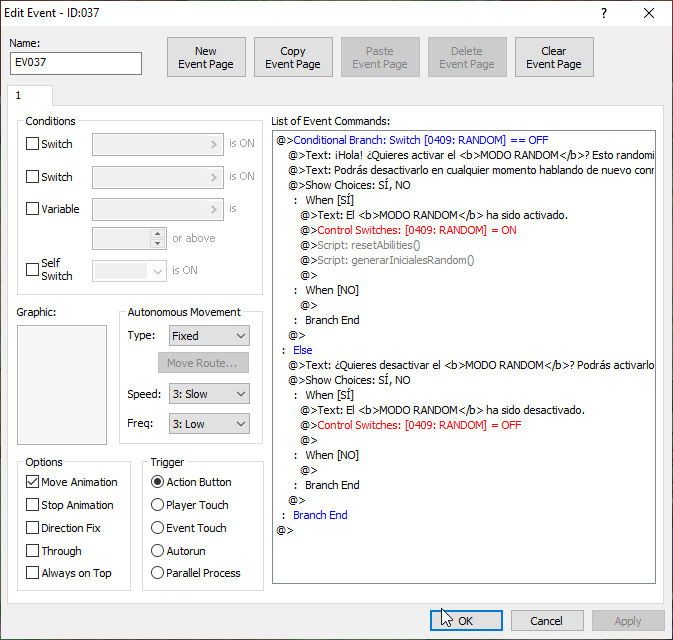
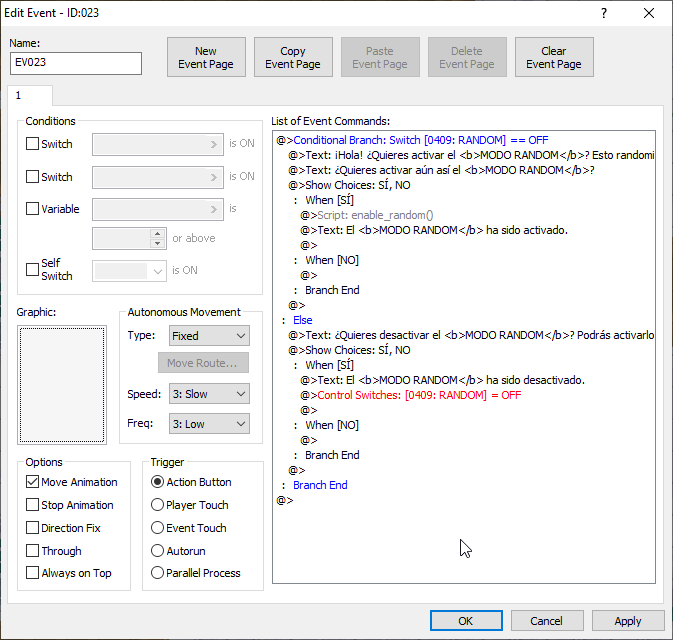
Cambios de la version 1.2.0

diff --git a/Random.rb b/Random.rb
@@ -26,9 +26,6 @@ module RandomizedChallenge
   Switch = 409 # switch ID to randomize a pokemon, if it's on then ALL
               # pokemon will be randomized. No exceptions.
   
-              
-  RANDOM_TM_COMPAT = false
-  
   BlackListedPokemon = []
   # Los Pokémon de la blacklist jamas saldran, ni en entrenadores ni como salvajes.
   # Ejemplo Blacklist
@@ -163,10 +160,28 @@ module RandomizedChallenge
   # Si la variable FULL_RANDOM_ABS esta en true esa sera la opcion determinada
   MAP_RANDOM_ABS = false
   # Si ambas variables estan en false no se randomizaran las habilidades
+  # Se puede cambiar el metodo de randomizado de habilidades 
+  # llamando al metodo choose_random_ability_mode a este metodo hay que pasarle el modo
+  # Para el mapeo hay que pasarle :MAP_RANDOM_ABS, asi choose_random_ability_mode(:MAP_RANDOM_ABS)
+  # Para el modo full random hay que pasarle :FULL_RANDOM_ABS, asi choose_random_ability_mode(:FULL_RANDOM_ABS)
+  # Tengan en cuenta que el llamado a este método volverá a randomizar las habilidades
+  # Y las antiguas no podrán ser recuperadas.
 
   # Este flag decide que el BST de los pokemon sea progresivo, es decir si el flag está en true 
   # no podran salir pokemon con un BST mayor al que se define en la funcion getMaxBSTCap
-  PROGRESSIVE_RANDOM = true
+  # Siempre se podra modificar esto llamando al metodo toggle_progressive_random
+  PROGRESSIVE_RANDOM_DEFAULT_VALUE = true
+
+  # Movimientos randomizados
+  # Si quieres que los movimientos esten randomizados por defecto pon esta constante en true
+  # Siempre se podra modificar esto llamando al metodo toggle_random_moves
+  RANDOM_MOVES_DEFAULT_VALUE = true
+  
+  # Randomizar compatibilidad con las MTs
+  # Se podrá cambiar llamando al metodo toggle_tm_compat
+  # Tengan en cuenta que de esa forma un jugador podria armarse el moveset como quiera
+  # Activando y desactivando esta opción
+  RANDOM_TM_COMPAT_DEFAULT_VALUE = false
 end
 
 ######################### Do not edit anything below here.
@@ -178,12 +193,46 @@ class PokemonGlobalMetadata
   attr_accessor :randomAbsPokemon
   attr_accessor :abilityHash
   attr_accessor :randomMoves
+  attr_accessor :enable_random_moves
+  attr_accessor :random_ability_mode
+  attr_accessor :progressive_random
+  attr_accessor :enable_random_tm_compat
   alias random_abil_init initialize
   def initialize
     random_abil_init
     @abilityHash=nil
   end
 end
+
+def are_random_moves_on()
+  return $PokemonGlobal.enable_random_moves ? true : false
+end
+def toggle_random_moves()
+  $PokemonGlobal.enable_random_moves = RandomizedChallenge::RANDOM_MOVES_DEFAULT_VALUE if $PokemonGlobal.enable_random_moves == nil
+  $PokemonGlobal.enable_random_moves = !$PokemonGlobal.enable_random_moves
+end
+
+def is_progressive_random_on()
+  return $PokemonGlobal.progressive_random ? true : false
+end
+def toggle_progressive_random()
+  $PokemonGlobal.progressive_random = !$PokemonGlobal.progressive_random
+end
+
+def is_random_tm_compat_on()
+  return $PokemonGlobal.enable_random_tm_compat ? true : false
+end
+def toggle_random_tm_compat()
+  $PokemonGlobal.enable_random_tm_compat = !$PokemonGlobal.enable_random_tm_compat
+end
+
+
+def choose_random_ability_mode(mode=:FULL_RANDOM_ABS)
+  return if $PokemonGlobal.random_ability_mode == mode
+  $PokemonGlobal.random_ability_mode = mode
+  resetAbilities
+end
+
 
 def get_random_gens()
   return $PokemonGlobal.randomGens ? $PokemonGlobal.randomGens : []
@@ -209,6 +258,23 @@ def add_or_remove_random_gen(gen = nil)
   end
 end
 
+def enable_random 
+  return if !$game_switches
+  resetAbilities
+  $PokemonGlobal.enable_random_moves = RandomizedChallenge::RANDOM_MOVES_DEFAULT_VALUE if $PokemonGlobal.enable_random_moves == nil
+  if !$PokemonGlobal.random_ability_mode
+    if RandomizedChallenge::FULL_RANDOM_ABS 
+      $PokemonGlobal.random_ability_mode = :FULL_RANDOM_ABS
+    elsif RandomizedChallenge::MAP_RANDOM_ABS 
+      $PokemonGlobal.random_ability_mode = :MAP_RANDOM_ABS
+    end
+  end
+  $PokemonGlobal.progressive_random = RandomizedChallenge::PROGRESSIVE_RANDOM_DEFAULT_VALUE if $PokemonGlobal.progressive_random == nil
+  $PokemonGlobal.enable_random_tm_compat = RandomizedChallenge::RANDOM_TM_COMPAT_DEFAULT_VALUE if $PokemonGlobal.enable_random_tm_compat == nil
+  generarInicialesRandom
+  $game_switches[RandomizedChallenge::Switch] = true
+end
+
 def is_pokemon_in_gen_range(species)
   return true if !$PokemonGlobal.randomGens
   is_valid = false
@@ -223,7 +289,7 @@ def is_pokemon_in_gen_range(species)
 end
 
 def isNotInAllowedBSTRange(bst)
-  return false if !RandomizedChallenge::PROGRESSIVE_RANDOM
+  return false if !$PokemonGlobal.progressive_random
   bst > getMaxBSTCap() || bst < getMinBSTCap()
 end
   
@@ -246,15 +312,10 @@ end
 def resetAbilities
   $PokemonGlobal.randomAbsPokemon.clear() if $PokemonGlobal.randomAbsPokemon
   $PokemonGlobal.abilityHash.clear() if $PokemonGlobal.abilityHash
-  createAbilityHash if RandomizedChallenge::MAP_RANDOM_ABS
+  createAbilityHash if $PokemonGlobal.random_ability_mode == :MAP_RANDOM_ABS
 end
 
 class PokeBattle_Pokemon
-  
-  alias randomized_init initialize
-  alias random_getAbilityList getAbilityList
-  alias random_getMoveList getMoveList
-
   def getBaseStatsSum(species)
     dexdata=pbOpenDexData
     pbDexDataOffset(dexdata,species,10)
@@ -318,6 +379,7 @@ class PokeBattle_Pokemon
   #    level     - Nivel del Pokémon.
   #    player    - Objeto PokeBattle_Trainer para el entrenador original.
   #    withMoves - Si está en false, este Pokémon no tendrá movimientos.
+  alias randomized_init initialize
   def initialize(species,level,player=nil,withMoves=true)
     return randomized_init(species,level,player,withMoves) if !($game_switches && $game_switches[RandomizedChallenge::Switch])
     species = getRandomSpecies()
@@ -395,29 +457,31 @@ class PokeBattle_Pokemon
       atkdata.pos=offset
       # Genera lista de movimientos
       movelist=[]
-      # INCIO generación de movimientos random
-      movelist = []
-      while movelist.length<4
-        move=rand(PBMoves::PBMoves.maxValue - 1)+1
-        movedata=PBMoveData.new(move)
-        if $Trainer.numbadges < 3 && RandomizedChallenge::PROGRESSIVE_RANDOM
-          next if (!move || movedata.basedamage > 70 || RandomizedChallenge::MOVEBLACKLIST.include?(move)) 
-        else
-          next if (!move || RandomizedChallenge::MOVEBLACKLIST.include?(move)) 
+      if $PokemonGlobal.enable_random_moves 
+        while movelist.length<4
+          move=rand(PBMoves::PBMoves.maxValue - 1)+1
+          movedata=PBMoveData.new(move)
+          if $Trainer.numbadges < 3 && $PokemonGlobal.progressive_random
+            next if (!move || movedata.basedamage > 70 || RandomizedChallenge::MOVEBLACKLIST.include?(move)) 
+          else
+            next if (!move || RandomizedChallenge::MOVEBLACKLIST.include?(move)) 
+          end
+          movelist.push(move)
+          movelist|=[] # Elimina duplicados
         end
-        movelist.push(move)
-        movelist|=[] # Elimina duplicados
-      end
-      # FIN generación de movimientos random
-      for i in 0..length-1
-        alevel=atkdata.fgetw
-        move=atkdata.fgetw
-        if alevel<=level
-          movelist[movelist.length]=move
+         # FIN generación de movimientos random
+      else
+        for i in 0..length-1
+          alevel=atkdata.fgetw
+          move=atkdata.fgetw
+          if alevel<=level
+            movelist[movelist.length]=move
+          end
         end
       end
       atkdata.close
       movelist|=[] # Elimina duplicados
+     
       # Se usan los últimos 4 elementos en la lista de movimientos
       listend=movelist.length-4
       listend=0 if listend<0
@@ -435,7 +499,7 @@ class PokeBattle_Pokemon
   end
   
 def isCompatibleWithMove?(move)
-  if !RandomizedChallenge::RANDOM_TM_COMPAT || ($game_switches && !$game_switches[RandomizedChallenge::Switch])
+  if !$PokemonGlobal.enable_random_tm_compat || ($game_switches && !$game_switches[RandomizedChallenge::Switch])
     return pbSpeciesCompatible?(self.species,move)
   end
 
@@ -495,21 +559,24 @@ def getAbilityMap(ret)
   return ret
 end
 
+alias random_getAbilityList getAbilityList
 def getAbilityList
   ret = random_getAbilityList
   if $game_switches && $game_switches[RandomizedChallenge::Switch]
-    if RandomizedChallenge::FULL_RANDOM_ABS
+    if $PokemonGlobal.random_ability_mode == :FULL_RANDOM_ABS
       return getAbilityFullRandom(ret)
-    elsif RandomizedChallenge::MAP_RANDOM_ABS
+    elsif $PokemonGlobal.random_ability_mode == :MAP_RANDOM_ABS
       return getAbilityMap(ret)
     end
   end
   return ret
 end
 
-
+alias random_getMoveList getMoveList
 def getMoveList
-  return random_getMoveList() if !($game_switches && $game_switches[RandomizedChallenge::Switch])
+  if ($game_switches && !$game_switches[RandomizedChallenge::Switch]) || !$PokemonGlobal.enable_random_moves
+   return random_getMoveList
+  end
   movelist=[]
   atkdata=pbRgssOpen("Data/attacksRS.dat","rb")
   offset=atkdata.getOffset(@species-1)
@@ -529,7 +596,7 @@ def getMoveList
     if move != nil
         move=rand(PBMoves::PBMoves.maxValue)+1 
         movedata=PBMoveData.new(move)
-        if $Trainer.numbadges < 3 && RandomizedChallenge::PROGRESSIVE_RANDOM
+        if $Trainer.numbadges < 3 && $PokemonGlobal.progressive_random
           moveExists = $PokemonGlobal.randomMoves[@species].detect{ |elem| elem[1] == (move) }
           while movedata.basedamage > 70 || RandomizedChallenge::MOVEBLACKLIST.include?(move) || moveExists
             move=rand(PBMoves::PBMoves.maxValue)+1

diff --git a/README.md b/README.md
@@ -4,18 +4,6 @@
 
 El modo random randomizará ataques y habilidades de los pokémon tanto de entrenadores como de los salvajes, se puede activar que también se randomice la compatibilidad con las MTs, se podrá restringir las generaciones de los pokémon que apareceran en el random.
 
-Se puede elegir como funciona el random de las habilidades, si es 100% random por especie o si mapea una habilidad a otra, o directamente no randomizar las habilidades.
-Unos ejemplos:
-
-- **Opción 1:** 100% random -> Para esta opcion hay que poner la constante `FULL_RANDOM_ABS` que está en el script `Random.rb` en `true`
-  Ejemplo Pikachu tendra Intimidación y Cura Natural, pero Raichu podría tener otras distintas, como Absorbe agua y levitación
-- **Opción 2:** Mapeo de habilidades -> Para esta opcion hay que poner la constante `MAP_RANDOM_ABS` que está en el script `Random.rb` en `true`
-  Ejemplo Intimidacion se convierte en Inicio Lento, lo que no significa, que Inicio Lento se convierta en Intimidación
-
-Si ninguna de las 2 constantes está en `true` no se randomizarán las habilidades.
-
-Si ambas constantes están en `true` se utilizará la opción 1
-
 El random es progresivo en base a la cantidad de medallas del jugador, entre más medallas tenga salen pokémon con más BST, aquí dejo la formula, que la pueden modificar en el metodo `getMaxBSTCap` y `getMinBSTCap`
 
 - 0 y 1 medalla BST min 0 y BST max 400
@@ -40,15 +28,61 @@ En el script `ObjetosRandom.rb` hay una variable `BLACK_LIST` que contiene los o
 
 También hay una variable `MTLIST_RANDOM` que debe contener las MTs, para que si el objeto que se randomizó es una MT que ya tienes se genere otra MT distinta, las distintas MTs se deben separar por comas, por ejemplo `[:TM01, :TM02, :TM03]`
 
+### Configuraciones Base
+
+- Si quieres desactivar el randomizado de los movimientos, en el script `Random.rb` hay una variable que se llama `RANDOM_MOVES_DEFAULT_VALUE` por defecto está en `true` si la cambias a `false` no se randomizarán los movimientos
+- Si quieres activar el randomizado de la compatibilidad con las MTs, en el script `Random.rb` hay una variable que se llama `RANDOM_TM_COMPAT` por defecto está en `false` si la cambias a `true` se randomizará la compatibilidad con las MTs
+- Se puede restringir qué pokémon salen en el random, para eso se debe modificar el script `Random.rb` en la variable `BlackListedPokemon` si se quiere restringir más de un pokémon se debe separar por comas, por ejemplo `[PBSpecies::ARTICUNO,PBSpecies::MOLTRES, PBSpecies::ZAPDOS]`
+- Se puede restringir qué habilidades salen en el random, para eso se debe modificar el script `Random.rb` en la variable `ABILITYBLACKLIST` si se quiere restringir más de una habilidad se debe separar por comas, por ejemplo `[PBAbilities::IMPOSTER, PBAbilities::ZENMODE, PBAbilities::WONDERGUARD]`
+- Se pueden restringir qué movimientos salen en el random, para eso se debe modificar el script `Random.rb` en la variable `MOVEBLACKLIST` si se quiere restringir más de un movimiento se debe separar por comas, por ejemplo `[PBMoves::CHATTER, PBMoves::DIG, PBMoves::TELEPORT, PBMoves::SONICBOOM, PBMoves::DRAGONRAGE, PBMoves::STRUGGLE]`
+- Si quieres desactivar que el random sea progresivo, en el script `Random.rb` hay una variable que se llama `PROGRESSIVE_RANDOM_DEFAULT_VALUE` por defecto está en `true` si la cambias a `false`, el random no será progresivo, por lo que desde la ruta 1 te podrian salir Pokémons legendarios a menos que esten inluídos en la blacklist
+- Se puede elegir como funciona el random de las habilidades, si es 100% random por especie o si mapea una habilidad a otra, o directamente no randomizar las habilidades.
+  Unos ejemplos:
+  - **Opción 1:** 100% random -> Para esta opcion hay que poner la constante `FULL_RANDOM_ABS` que está en el script `Random.rb` en `true`
+  Ejemplo Pikachu tendra Intimidación y Cura Natural, pero Raichu podría tener otras distintas, como Absorbe agua y levitación
+  - **Opción 2:** Mapeo de habilidades -> Para esta opcion hay que poner la constante `MAP_RANDOM_ABS` que está en el script `Random.rb` en `true`
+  Ejemplo Intimidación se convierte en Inicio Lento, lo que no significa, que Inicio Lento se convierta en Intimidación
+  
+  Si ninguna de las 2 constantes está en `true` no se randomizarán las habilidades.
+  Si ambas constantes están en `true` se utilizará la opción 1.
+
+
+### Con la version 1.2.0
+
+Hay varias mejoras, ahora se puede decidir si los movimientos están randomizados o no, se agregaron un total de 7 metodos nuevos para que como maker puedan darle la opcion al jugador de configurar el random a su gusto, estos metodos son:
+
+- are_random_moves_on -> Devuelve si los movimientos están randomizados, esto es mas que nada por si en un evento le quieren informar al usuario el estado de esta opción del random
+- toggle_random_moves -> Permite cambiar el estado de los movimientos randomizados, si estaban en true los pone en false y viceversa
+- is_progressive_random_on -> Similar al primer metodo, devuelve si la progresividad del random está activa
+- toggle_progressive_random -> Permite cambiar el estado de la progresividad del random, si estaba en true lo pone en false y viceversa
+- is_random_tm_compat_on -> Similar al primer metodo, devuelve si la compatibilidad con las MTs está randomizada
+- toggle_random_tm_compat -> Permite cambiar el estado de la compatibilidad con las MTs, si estaba en true lo pone en false y viceversa
+- choose_random_ability_mode -> Permite cambiar el modo de random de las habilidades, recibe en el modo esperado :FULL_RANDOM_ABS para el modo full random (la opcion 1 mencionanda mas arriba) o :MAP_RANDOM_ABS para el modo de mapeo de habilidades (la opcion 2 mencionanda mas arriba)
+  Tengan en cuenta de que cambiar el modo de las habilidades las regenerará, por lo que si el jugador ya tiene un pokémon con habilidades randomizadas, estas se perderán
+
+Si creo el metodo enable_random para facilitar la activacion del random, en el evento solo llamán a este metodo y el random se activará con las opciones que se hayan predefinido en el script, las opciones que se pueden predefinir son:
+
+- `FULL_RANDOM_ABS = true` o `MAP_RANDOM_ABS = true` -> Esto determina el modo de random de las habilidades, si no se predefine ninguna de estas constantes, las habilidades no se randomizarán, si ambas están en true se utilizará la opcion 1
+- `PROGRESSIVE_RANDOM_DEFAULT_VALUE = true o false` -> Esto determina si la progresividad del random está activa, el usuario podría cambiar esta opción si le crean un evento que llame al método toggle_progressive_random
+- `RANDOM_MOVES_DEFAULT_VALUE = true o false` -> Esto determina si los movimientos están randomizados, el usuario podría cambiar esta opción si le crean un evento que llame al método toggle_random_moves
+- `RANDOM_TM_COMPAT_DEFAULT_VALUE = true o false` -> Esto determina si la compatibilidad con las MTs está randomizada, el usuario podría cambiar esta opción si le crean un evento que llame al método toggle_random_tm_compat
+
+Los valores por defecto para estas constantes son:
+
+- `FULL_RANDOM_ABS = true`
+- `MAP_RANDOM_ABS = false`
+- `PROGRESSIVE_RANDOM_DEFAULT_VALUE = true`
+- `RANDOM_MOVES_DEFAULT_VALUE = true`
+- `RANDOM_TM_COMPAT_DEFAULT_VALUE = false`
+
 ## Implementación
 
-1. Descargar el zip "ModoRandom.zip" desde [aquí](https://github.com/Pokemon-Fan-Games/ModoRandom/releases/download/v1.1.2/ModoRandom.zip)
+1. Descargar el zip "ModoRandom.zip" desde [aquí](https://github.com/Pokemon-Fan-Games/ModoRandom/releases/download/v1.2.0/ModoRandom.zip)
 3. Crear los 3 scripts que están en el zip, arriba del script Main
 4. Crear el siguiente NPC para activar el modo random
 
-   1. Debe activar el switch que tengan definido en el script, si lo dejan tal cual sería el 409
-   2. Agregar una opción de script al evento con el llamado a la función `generarInicialesRandom()`
-   3. El NPC también podría desactivar el random, solo tiene que desactivar el switch
+   1. Se debe agregar una sentencia de tipo script que llame al método `enable_random`
+   2. El NPC también podría desactivar el random, solo tiene que desactivar el switch
 
    **Ejemplo del evento que activa/desactiva el random**
    ![NPC Activar Random](images/activar_random.png)
@@ -73,11 +107,6 @@ También hay una variable `MTLIST_RANDOM` que debe contener las MTs, para que si
     $game_switches[159] = ret != 9;
     add_or_remove_random_gen(ret+1);
    ```
-
-6. Si quieres activar el randomizado de la compatibilidad con las MTs, en el script `Random.rb` hay una variable que se llama `RANDOM_TM_COMPAT` por defecto está en `false` si la cambias a `true` se randomizará la compatibilidad con las MTs
-7. Se puede restringir qué pokémon salen en el random, para eso se debe modificar el script `Random.rb` en la variable `BlackListedPokemon` si se quiere restringir más de un pokémon se debe separar por comas, por ejemplo `[PBSpecies::ARTICUNO,PBSpecies::MOLTRES, PBSpecies::ZAPDOS]`
-8. Se puede restringir qué habilidades salen en el random, para eso se debe modificar el script `Random.rb` en la variable `ABILITYBLACKLIST` si se quiere restringir más de una habilidad se debe separar por comas, por ejemplo `[PBAbilities::IMPOSTER, PBAbilities::ZENMODE, PBAbilities::WONDERGUARD]`
-9. Se pueden restringir qué movimientos salen en el random, para eso se debe modificar el script `Random.rb` en la variable `MOVEBLACKLIST` si se quiere restringir más de un movimiento se debe separar por comas, por ejemplo `[PBMoves::CHATTER, PBMoves::DIG, PBMoves::TELEPORT, PBMoves::SONICBOOM, PBMoves::DRAGONRAGE, PBMoves::STRUGGLE]`
 
 ### Evento Iniciales
 
